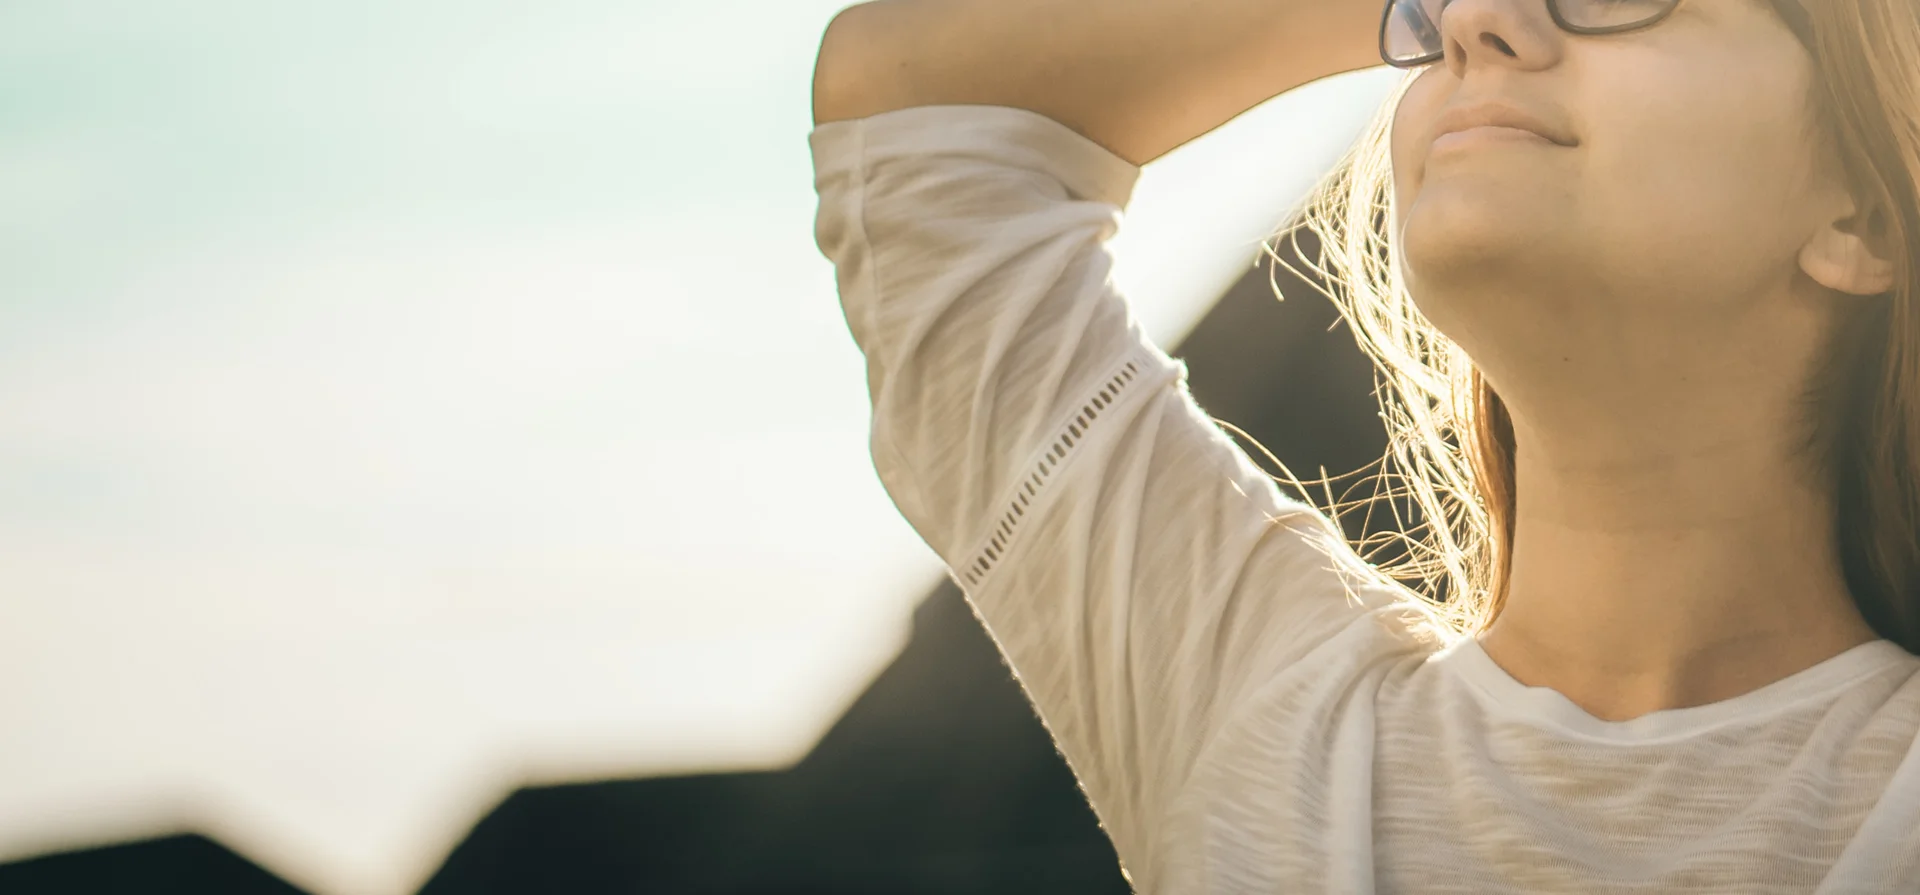
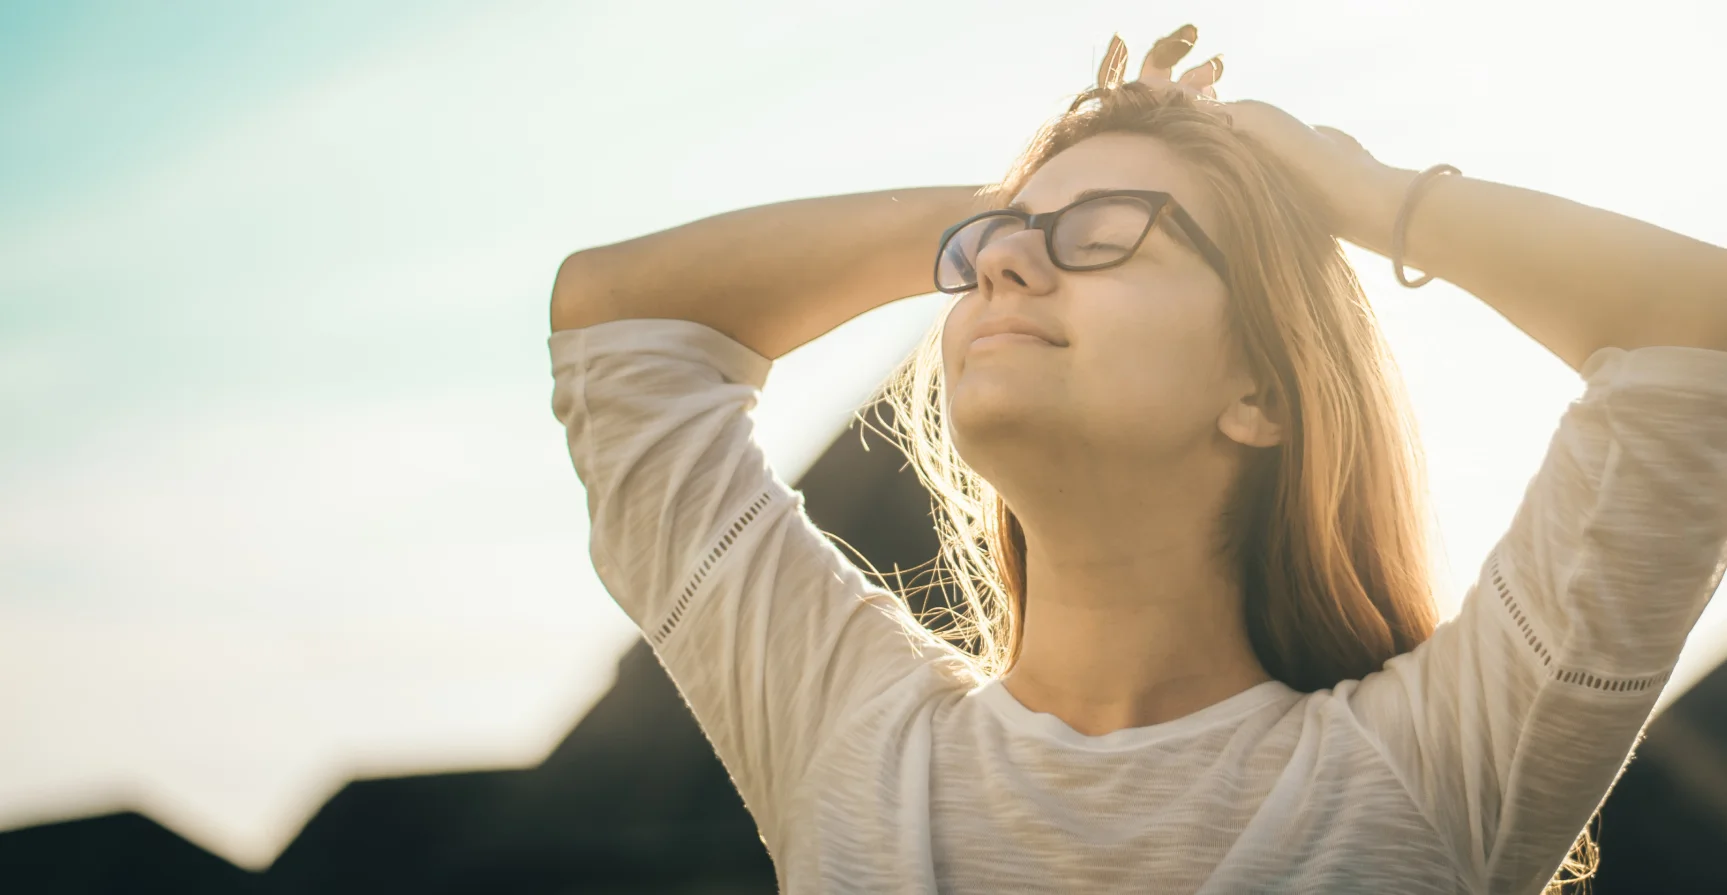
hero section implementation

diff --git a/styles/hero.css b/styles/hero.css
@@ -1,0 +1,61 @@
+.hero {
+    background: url('../assets/webp/hero_bg.webp') center/cover no-repeat;
+    width: 100%;
+    height: 890px;
+}
+
+
+.hero__content {
+    padding: 180px 0 0 0;
+    max-width: 420px;
+    display: flex;
+    flex-direction: column;
+    justify-content: start;
+    align-items: start;
+}
+
+.hero__title {
+    color: var(--co-green);
+    font-size: 65px;
+    font-weight: 700;
+}
+
+.hero__desc {
+    margin: 25px 0 50px;
+    color: var(--co-light-black);
+    font-size: 20px;
+    font-weight: 400;
+}
+
+
+.hero__content .btn {
+    width: 230px;
+    height: 65px;
+}
+
+
+@media (max-width: 768px) {
+    .hero {
+    height: 700;
+}
+    .hero__content {
+        padding: 80px 0 0 0;
+    }
+
+}
+
+
+@media (max-width: 480px) {
+    .hero {
+    background:
+    linear-gradient(180deg, rgba(245, 246, 252, 0.52), rgba(255, 176, 139, 0.28)), 
+    url('../assets/webp/hero_bg.webp') 60% 50%/cover no-repeat;
+}
+
+    
+    .hero__title {
+    font-size: 45px;
+    max-width: 350px;
+}
+
+}

diff --git a/index.html b/index.html
@@ -41,5 +41,18 @@
             </div>
         </div>
     </header>
+
+    <main>
+        <section class="hero">
+            <div class="container">
+                <div class="hero__content">
+                    <h1 class="hero__title">Be aware, Manage well.</h1>
+                    <p class="hero__desc">Everyone experiences stress in different ways.
+                    Let Alivio guide you, in a personalized journal experience, to overcome your stress</p>
+                    <button type="button" class="btn">Find Your Way</button>
+                </div>
+            </div>
+        </section>
+    </main>
 </body>
 </html>

diff --git a/styles/basic.css b/styles/basic.css
@@ -19,6 +19,11 @@ a {
     color: unset;
 }
 
+h1, h2, h3, h4, h5, h6, p {
+    margin: 0;
+
+}
+
 .container {
     max-width: 1400px;
     padding: 0 10px;

diff --git a/index.css b/index.css
@@ -1,3 +1,4 @@
 @import url('styles/variables.css');
 @import url('styles/basic.css');
 @import url('styles/header.css');
+@import url('styles/hero.css');

diff --git a/styles/variables.css b/styles/variables.css
@@ -3,4 +3,5 @@
     --co-green: #017f67;
     --co-dark-green: #245852;
     --co-black: #292929;
+    --co-light-black: #484848;
 }
